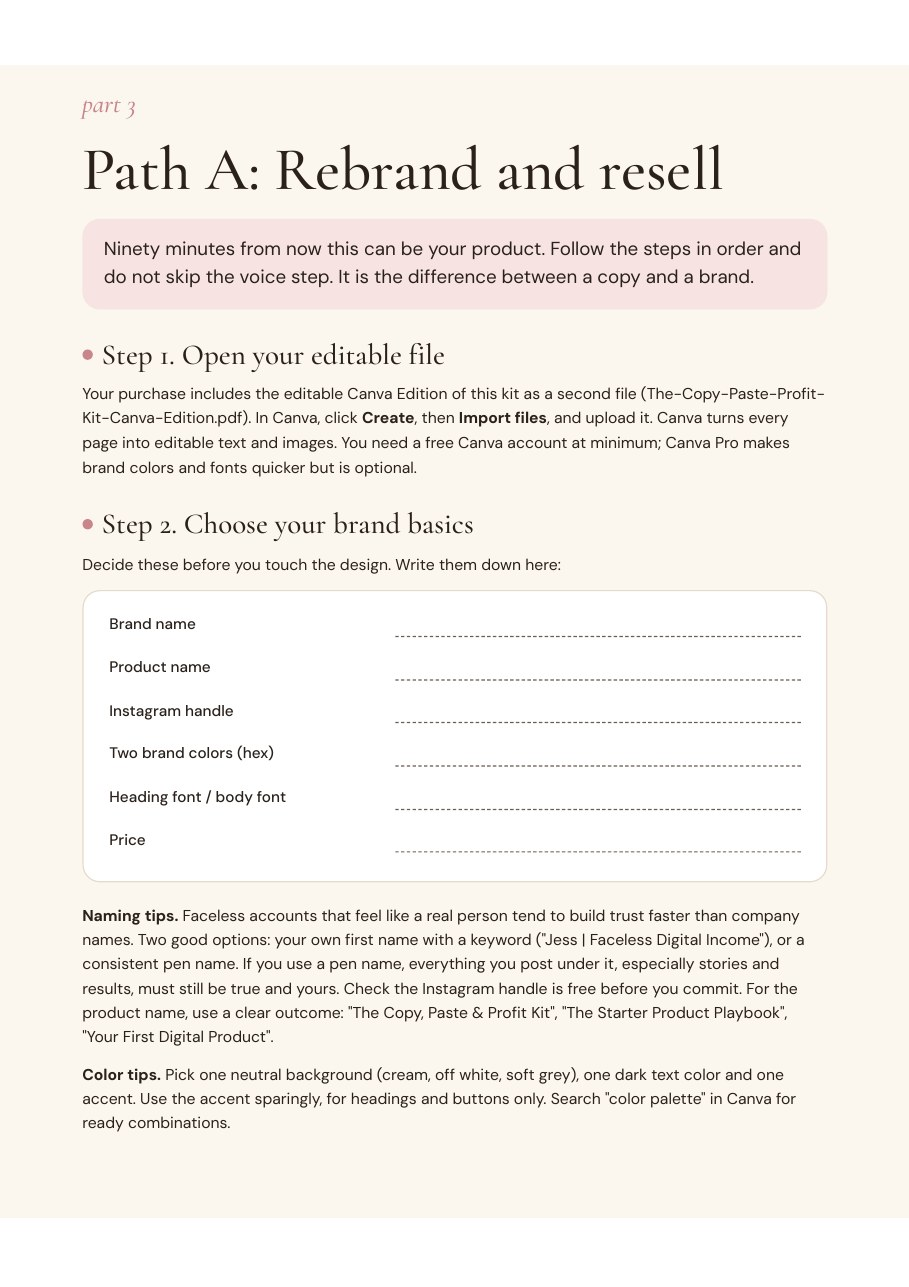
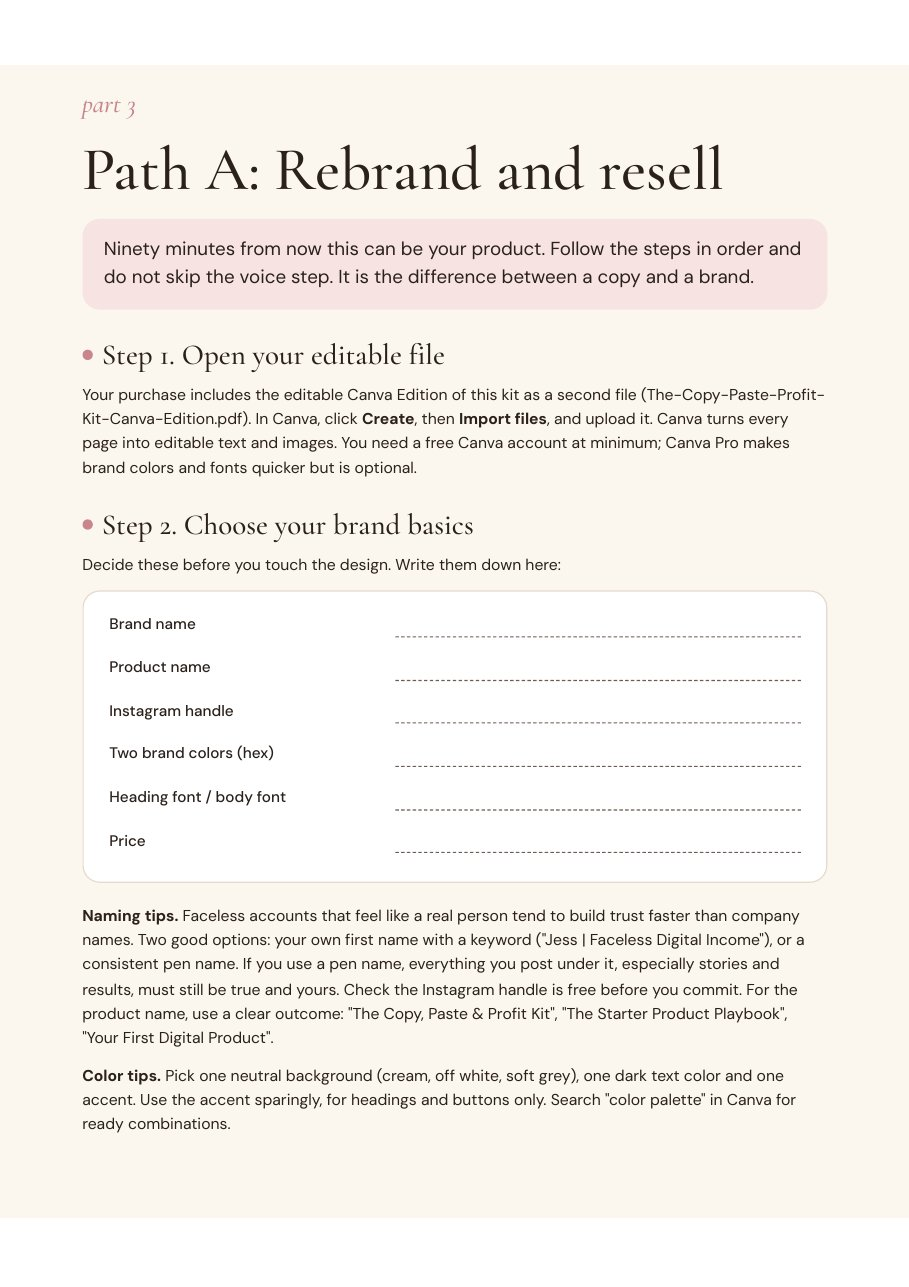
Sales page: fresh Kit page previews, honest ideas wording
Claude-Session: https://claude.ai/code/session_01H47VrTymYF6ENptfewLLR9

diff --git a/index.html b/index.html
@@ -348,7 +348,7 @@ footer p{max-width:62em}
     <figure><img src="assets/pg23.jpg" alt="Faceless content formats table" width="909" height="1287" loading="lazy"><figcaption><em>Faceless content</em>Formats and pillars that work without your face.</figcaption></figure>
     <figure><img src="assets/pg29.jpg" alt="Comment to DM automation scripts" width="909" height="1287" loading="lazy"><figcaption><em>Comment to DM</em>Ready to paste automation scripts.</figcaption></figure>
     <figure><img src="assets/pg38.jpg" alt="The 30 day plan with daily tasks" width="909" height="1287" loading="lazy"><figcaption><em>The 30 day plan</em>One small job a day, ticked off as you go.</figcaption></figure>
-    <figure><img src="assets/pg40.jpg" alt="50 digital product ideas that sell" width="909" height="1287" loading="lazy"><figcaption><em>Bonus</em>50 digital product ideas that sell.</figcaption></figure>
+    <figure><img src="assets/pg40.jpg" alt="50 simple digital product ideas" width="909" height="1287" loading="lazy"><figcaption><em>Bonus</em>50 digital product ideas that sell.</figcaption></figure>
   </div>
 </section>
 
@@ -363,7 +363,7 @@ footer p{max-width:62em}
       <li><span class="n">02</span><h3>Rebrand and resell</h3><p>The editable Canva Edition, a brand basics worksheet and naming tips, so the product looks like it was always yours.</p></li>
       <li><span class="n">03</span><h3>Build your own with Claude</h3><p>Six steps, each with a prompt to copy. Pick a buyer, outline, write, design and list your product with AI doing the heavy lifting.</p></li>
       <li><span class="n">04</span><h3>Faceless content and automation</h3><p>Five faceless formats, 20 hooks, content pillars, Pinterest, and comment to DM scripts that send your link for you.</p></li>
-      <li><span class="n">05</span><h3>Your 30 day plan</h3><p>Thirty small daily tasks from setup to your first posts, plus a bonus list of 50 digital product ideas that sell.</p></li>
+      <li><span class="n">05</span><h3>Your 30 day plan</h3><p>Thirty small daily tasks from setup to your first posts, plus a bonus list of 50 simple digital product ideas.</p></li>
     </ol>
   </div>
 </section>
